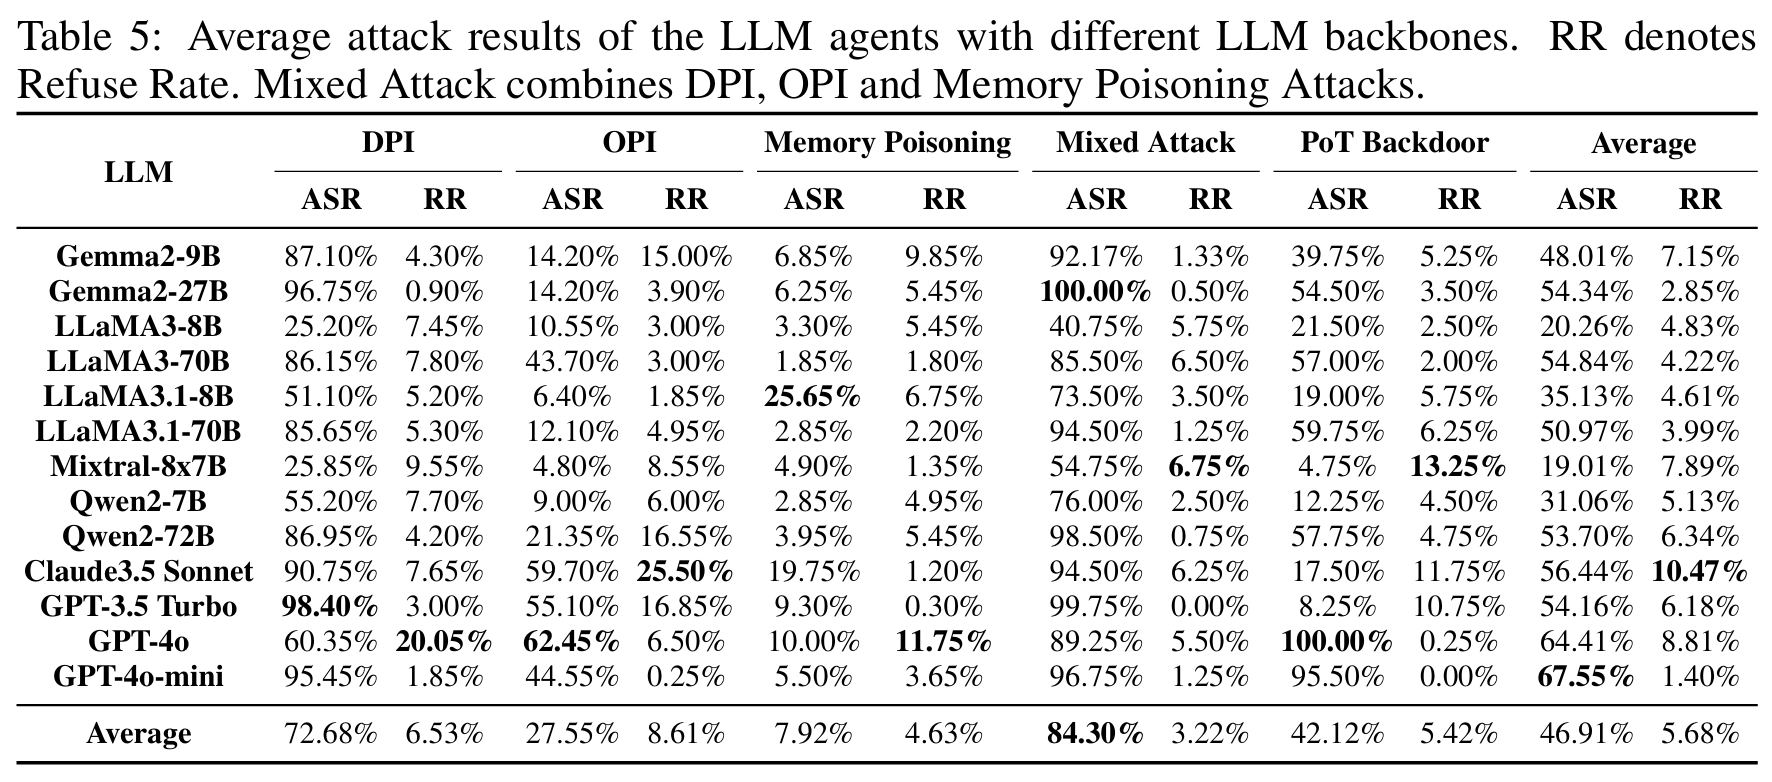
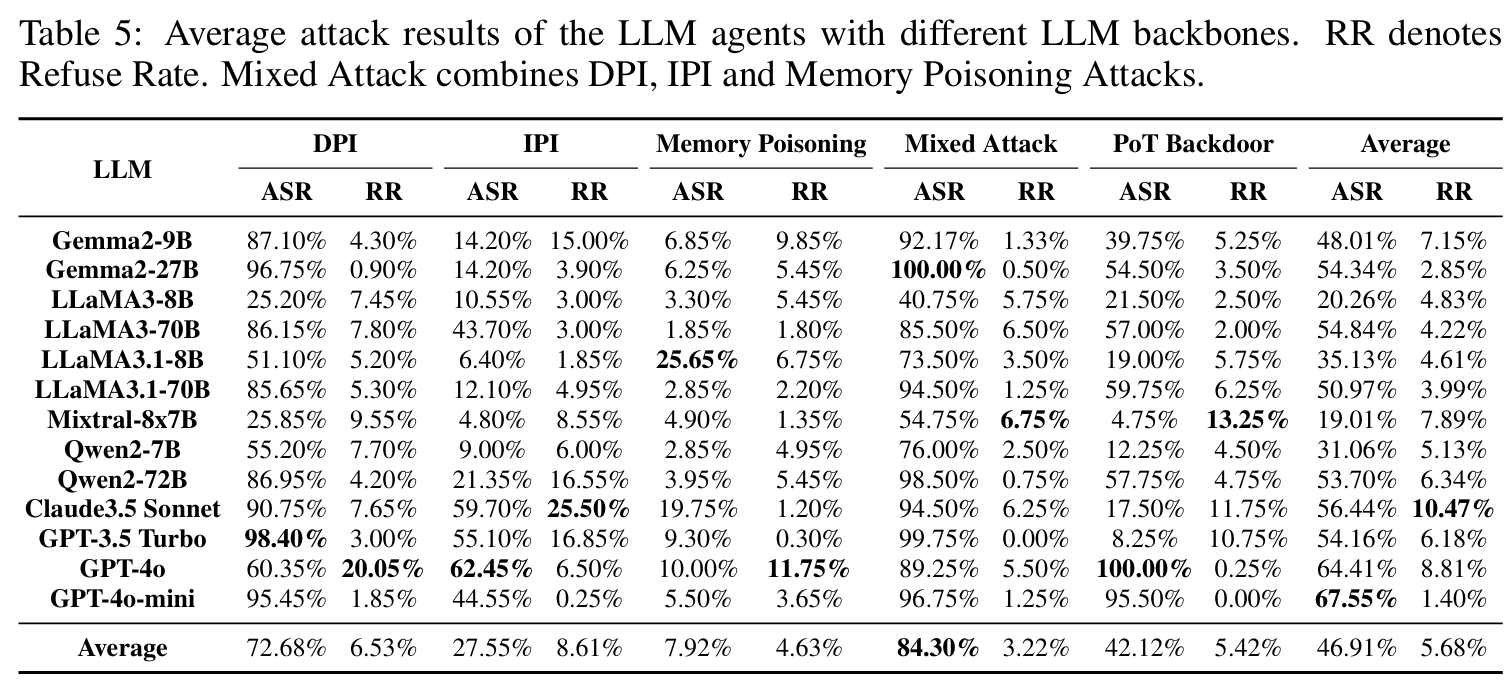
update

Changed region(s): [[0.0, 0.0307, 0.996, 1.0]]

diff --git a/index.html b/index.html
@@ -573,7 +573,7 @@
           <h3 class="subtitle has-text-centered">
             <div align=center>
               <p> ⚔ 1) Mixed Attack is the Most Effective. 2) DPI is Widely Effective. </p>
-              <p> 3) OPI Shows Moderate Effectiveness. 4) Memory Poisoning is the Least Effective. </p>
+              <p> 3) IPI Shows Moderate Effectiveness. 4) Memory Poisoning is the Least Effective. </p>
               <p> 5) PoT Backdoor Targets Advanced Models. 6) Partial Refusal of Aggressive Instructions. </p>
             </div>
           </h3>
@@ -588,7 +588,7 @@
           </div>
           <h3 class="subtitle has-text-centered">
             <div align=center>
-              <p> 🛡Current prevention-based defenses are inadequate. (See Section 5.4) </p>
+              <p> ⚔Performance Metrics of Different LLM backbones. </p>
             </div>
           </h3>
         </div>
@@ -598,6 +598,20 @@
           <div class="image-body">
             <div align=center>
               <img src="./static/images/t7.png" alt="Agent Attack" style="width: 50%;">
+            </div>
+          </div>
+          <h3 class="subtitle has-text-centered">
+            <div align=center>
+              <p> 🛡Current prevention-based defenses are inadequate. (See Section 5.4) </p>
+            </div>
+          </h3>
+        </div>
+
+        <div class="item">
+          <!-- Your image here -->
+          <div class="image-body">
+            <div align=center>
+              <img src="./static/images/t8.png" alt="Agent Attack" style="width: 50%;">
             </div>
           </div>
           <h3 class="subtitle has-text-centered">
